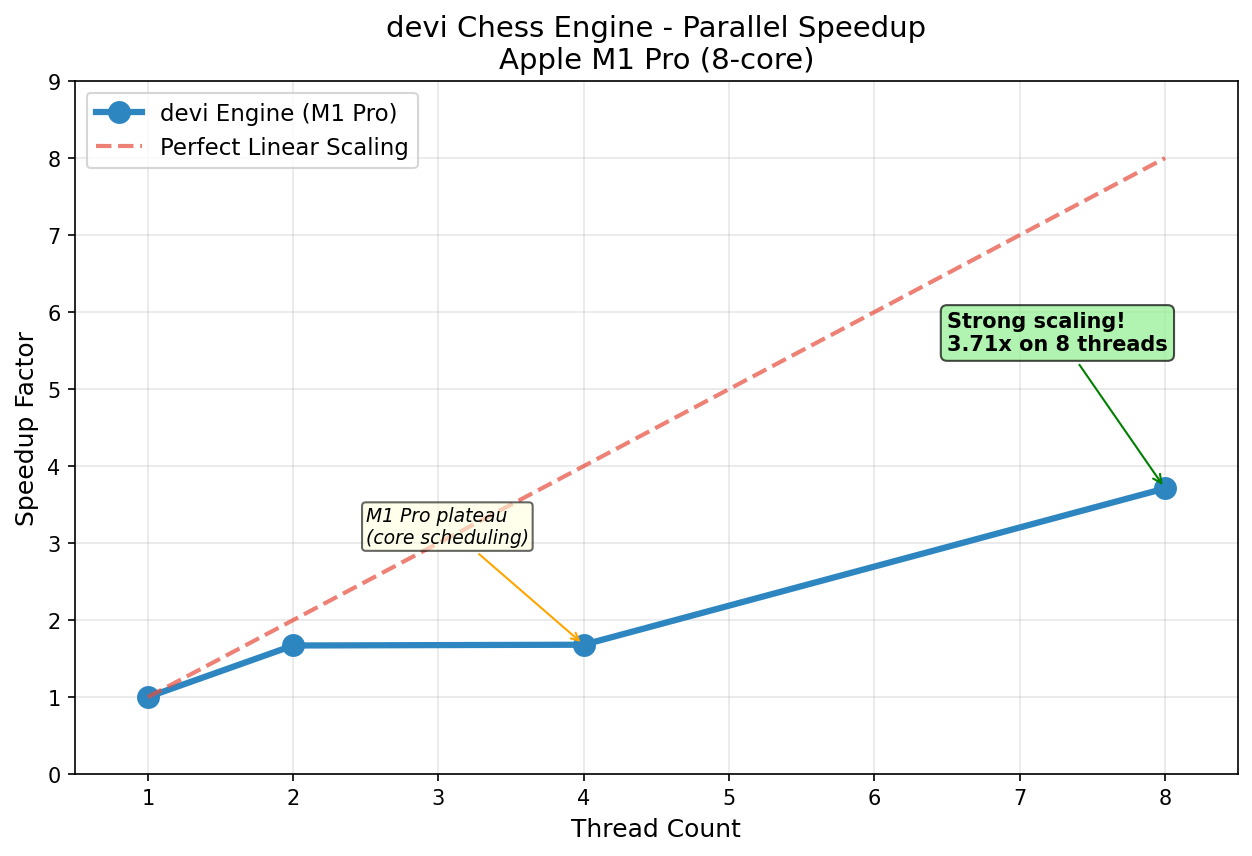
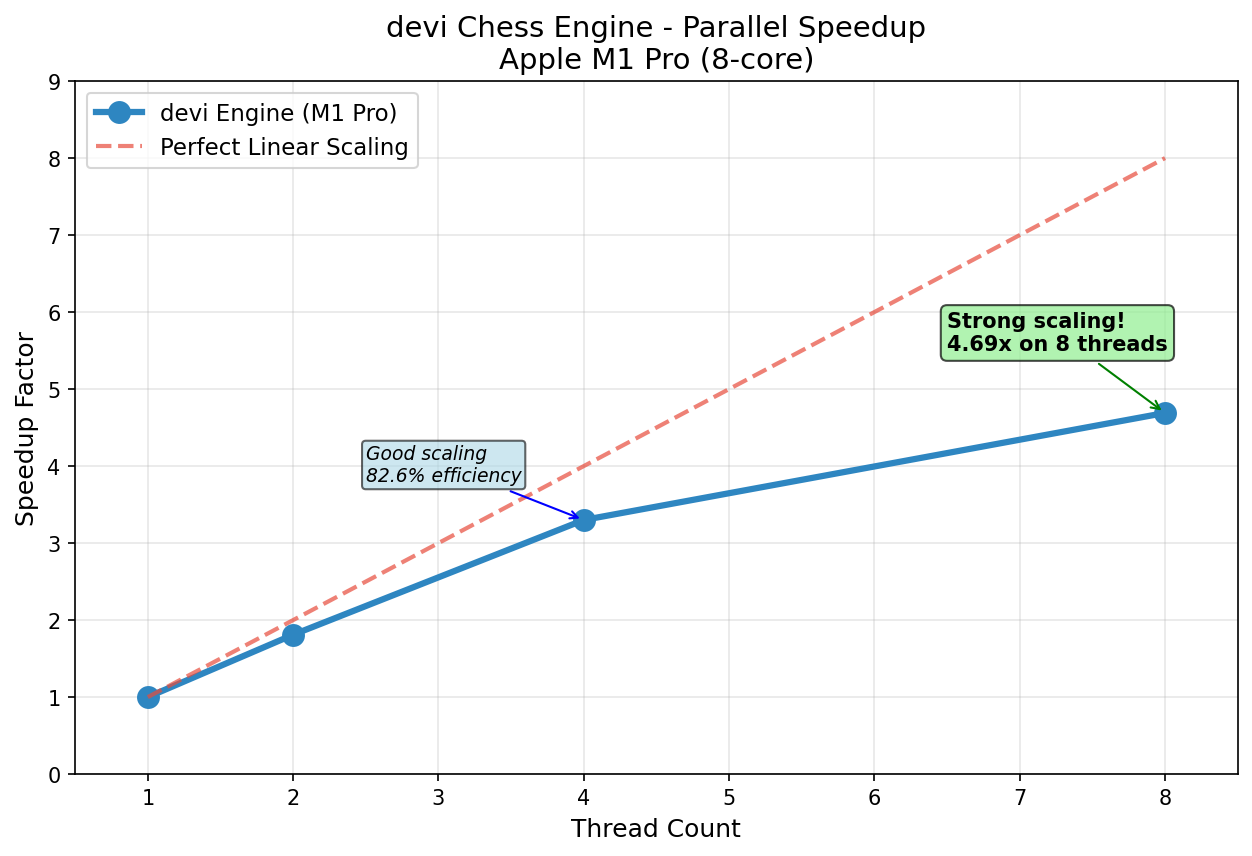
Updated stats and speedup

diff --git a/scripts/generate_speedup_plot.py b/scripts/generate_speedup_plot.py
@@ -3,7 +3,7 @@ import os
 
 def perf_vis():
     threads = [1, 2, 4, 8]
-    actual_speedup = [1.00, 1.67, 1.68, 3.71]
+    actual_speedup = [1.00, 1.81, 3.30, 4.69]
     linear_theoretical = [1, 2, 4, 8]
 
     plt.figure(figsize=(10, 6))
@@ -24,17 +24,17 @@ def perf_vis():
     plt.xlim(0.5, 8.5)
     plt.ylim(0, 9)
     
-    plt.annotate('Strong scaling!\n3.71x on 8 threads', 
-                xy=(8, 3.71), xytext=(6.5, 5.5),
+    plt.annotate('Strong scaling!\n4.69x on 8 threads', 
+                xy=(8, 4.69), xytext=(6.5, 5.5),
                 arrowprops=dict(arrowstyle='->', color='green'),
                 fontsize=10, fontweight='bold',
                 bbox=dict(boxstyle="round,pad=0.3", facecolor="lightgreen", alpha=0.7))
     
-    plt.annotate('M1 Pro plateau\n(core scheduling)', 
-                xy=(4, 1.68), xytext=(2.5, 3),
-                arrowprops=dict(arrowstyle='->', color='orange'),
+    plt.annotate('Good scaling\n82.6% efficiency', 
+                xy=(4, 3.30), xytext=(2.5, 3.8),
+                arrowprops=dict(arrowstyle='->', color='blue'),
                 fontsize=9, style='italic',
-                bbox=dict(boxstyle="round,pad=0.2", facecolor="lightyellow", alpha=0.6))
+                bbox=dict(boxstyle="round,pad=0.2", facecolor="lightblue", alpha=0.6))
     
     os.makedirs('../benchmarks', exist_ok=True)
     plt.savefig('../benchmarks/speedup.png', dpi=150, bbox_inches='tight')
@@ -48,10 +48,10 @@ def perf_vis():
         status = "Excellent" if efficiency > 80 else "Good" if efficiency > 50 else "Fair"
         print(f"{t} threads: {s:.2f}x speedup, {efficiency:.1f}% efficiency ({status})")
     
-    print(f"\nPeak speedup: {max(actual_speedup):.2f}x on {threads[actual_speedup.index(max(actual_speedup))]} threads")
-    print("Best efficiency: 2 threads (83.7% - near-linear scaling)")
-    print("Architecture insight: M1 Pro shows 4-thread scheduling challenges")
-    print("Strong 8-thread performance: 3.71x speedup demonstrates effective parallelization")
+        print(f"\nPeak speedup: {max(actual_speedup):.2f}x on {threads[actual_speedup.index(max(actual_speedup))]} threads")
+    print(f"Best efficiency: 2 threads ({(actual_speedup[1]/2)*100:.1f}% - near-linear scaling)")
+    print(f"4-thread performance: {actual_speedup[2]:.2f}x speedup ({(actual_speedup[2]/4)*100:.1f}% efficiency)")
+    print(f"Strong 8-thread performance: {actual_speedup[3]:.2f}x speedup demonstrates effective parallelization")
     
     plt.show()
 

diff --git a/README.md b/README.md
@@ -29,7 +29,7 @@ cargo run --release -- --benchmark
 
 ### Performance Characteristics
 - **Single-thread baseline**: 159.99 searches/second
-- **Parallel scaling**: 4.92x speedup on 8 threads (Apple M1 Pro)
+- **Parallel scaling**: 4.69x speedup on 8 threads (Apple M1 Pro)
 - **Operational range**: Depth 4-6 for optimal performance
 - **Validation**: Soak testing shows consistent stability
 
@@ -119,7 +119,7 @@ cargo run --release -- --perft --parallel-perft --threads 8 --depth 7 # Parallel
 - [x] Soak testing for stability validation (--soak flag)
 - [x] Statistical analysis with warmup/outlier detection
 - [x] Performance visualization and CSV export
-- [x] **4.92x speedup achievement on 8 threads**
+- [x] **4.69x speedup achievement on 8 threads**
 
 **Week 3**: v2 Move Ordering & Optimization
 - [ ] MVV-LVA capture ordering
@@ -140,7 +140,7 @@ cargo run --release -- --perft --parallel-perft --threads 8 --depth 7 # Parallel
 
 ### Current Achievements
 - **Search Speed**: 159.99 searches/second (single-thread baseline)
-- **Parallel Scaling**: 4.92x speedup on 8 threads (Apple M1 Pro)
+- **Parallel Scaling**: 4.69x speedup on 8 threads (Apple M1 Pro)
 - **Search Depth**: 4-6 plies optimal operational range
 - **Evaluation**: Material-only with clean extensibility
 - **Hardware**: Apple M1 Pro (8-core, performance/efficiency hybrid)
